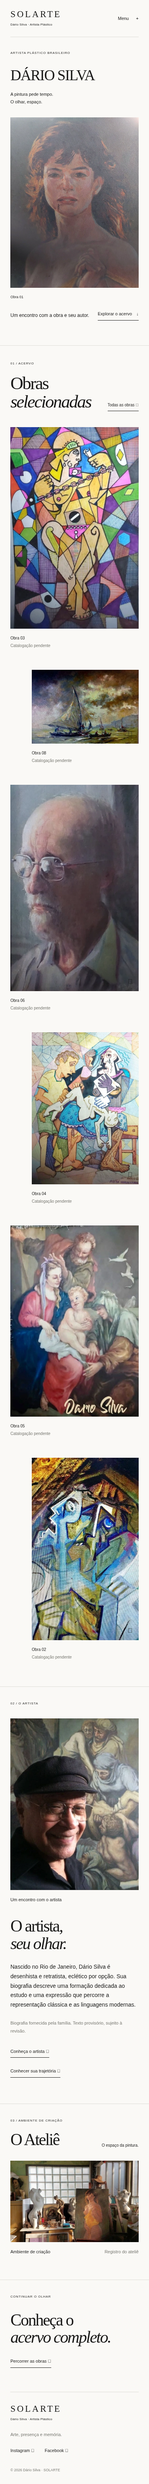
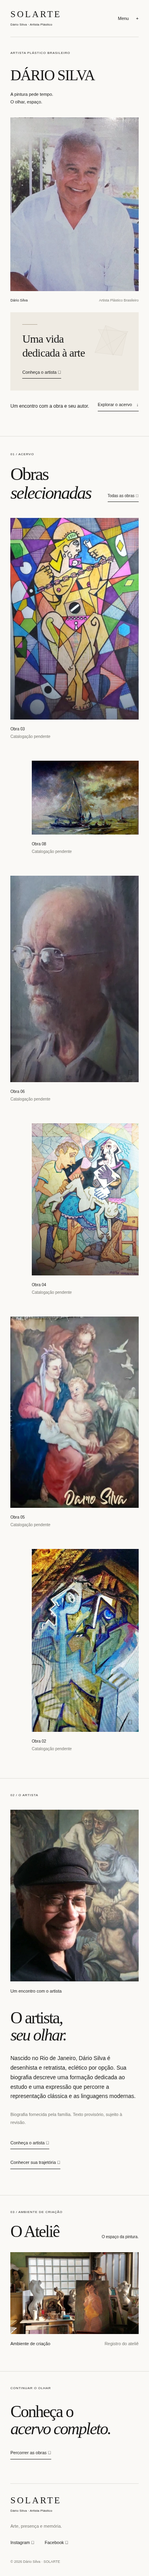
Balance SOLARTE home hero around the artist portrait

diff --git a/tests/browser/site.spec.ts b/tests/browser/site.spec.ts
@@ -76,7 +76,7 @@ test('SOLARTE identifica o site e a Home apresenta o acervo e o ateliê', async 
 
   await expect(page.getByRole('heading', { name: 'Obras selecionadas', exact: true })).toBeVisible();
   await expect(page.getByRole('heading', { name: 'O Ateliê', exact: true })).toBeVisible();
-  await expect(page.getByRole('link', { name: /Conheça o artista/i })).toBeVisible();
+  await expect(page.locator('.hero').getByRole('link', { name: /Conheça o artista/i })).toBeVisible();
   await expect(page.locator('main').getByRole('link', { name: /acervo completo|todas as obras/i }).first()).toBeVisible();
 
   const favicon = page.locator('link[rel="icon"]').first();
@@ -86,12 +86,12 @@ test('SOLARTE identifica o site e a Home apresenta o acervo e o ateliê', async 
   expect(response.ok()).toBe(true);
 });
 
-test('Home exibe a pintura escolhida, a seleção real, o retrato e o ateliê sem recortar imagens', async ({ page }) => {
+test('Home exibe primeiro o artista de camisa branca, a seleção real e o ateliê sem recortar imagens', async ({ page }) => {
   await page.goto('/');
   await expectNoPlaceholders(page);
-  const hero = getArtwork(curation.hero);
-  expect(hero?.image).toBeTruthy();
-  await expectRealImage(page.locator('.hero-art img'), hero!.image!.src);
+  const heroPortrait = artist.portraits[0];
+  expect(heroPortrait.src).toBe('/images/dario-silva-camisa-branca.png');
+  await expectRealImage(page.locator('.hero-art img'), heroPortrait.src);
   const selected = page.locator('#selecao .gallery-grid img');
   await expect(selected).toHaveCount(curation.selected.length);
   for (const [index, slug] of curation.selected.entries()) {
@@ -103,6 +103,33 @@ test('Home exibe a pintura escolhida, a seleção real, o retrato e o ateliê se
   expect(artist.studio).toBeTruthy();
   await expectRealImage(page.locator('.home-artist figure img'), artist.homePortrait!.src);
   await expectRealImage(page.locator('.studio figure img'), artist.studio!.src);
+});
+
+test('composição editorial equilibra o retrato no desktop e o apresenta antes do texto no celular', async ({ page }) => {
+  await page.goto('/');
+  const panel = page.locator('.hero-editorial');
+  const portrait = page.locator('.hero-art');
+  await expect(panel).toContainText('Uma vida dedicada à arte');
+  const artistLink = panel.getByRole('link', { name: /Conheça o artista/i });
+  await expect(artistLink).toHaveAttribute('href', '/o-artista');
+  await expect(panel.locator('svg')).toHaveAttribute('aria-hidden', 'true');
+
+  const [panelBounds, portraitBounds] = await Promise.all([panel.boundingBox(), portrait.boundingBox()]);
+  expect(panelBounds).not.toBeNull();
+  expect(portraitBounds).not.toBeNull();
+  const width = page.viewportSize()!.width;
+  if (width <= 700) {
+    expect(portraitBounds!.y + portraitBounds!.height).toBeLessThanOrEqual(panelBounds!.y + 1);
+    expect(panelBounds!.y - portraitBounds!.y - portraitBounds!.height).toBeLessThan(50);
+  } else {
+    expect(panelBounds!.x + panelBounds!.width).toBeLessThanOrEqual(portraitBounds!.x + 1);
+    expect(Math.min(panelBounds!.y + panelBounds!.height, portraitBounds!.y + portraitBounds!.height))
+      .toBeGreaterThan(Math.max(panelBounds!.y, portraitBounds!.y));
+  }
+
+  await artistLink.click();
+  await expect(page).toHaveURL('/o-artista');
+  await expect(page.getByRole('heading', { name: 'A arte como expressão de uma vida', exact: true })).toBeVisible();
 });
 
 test('cada pintura real carrega no acervo e em sua ficha, com proporções e campos sem informações inventadas', async ({ page }) => {

diff --git a/app/page.tsx b/app/page.tsx
@@ -1,25 +1,41 @@
 import Link from 'next/link';
-import { artworks, getArtwork, canDisplayImage } from '@/data/artworks';
+import { getArtwork, canDisplayImage } from '@/data/artworks';
 import { artist, artistBiography } from '@/data/artist';
 import { curation } from '@/data/curation';
-import { ArtworkImage } from '@/components/artwork-image';
 import { ArtistImage } from '@/components/artist-image';
 import { Gallery } from '@/components/gallery';
 
 export default function Home() {
-  const heroArtwork = getArtwork(curation.hero) ?? artworks[0];
+  const heroPortrait = artist.portraits[0];
   const selected = curation.selected.flatMap(slug => { const artwork = getArtwork(slug); return artwork ? [artwork] : []; });
   return (
     <>
       <section className="hero page-shell">
         <div className="hero-top"><p className="eyebrow">{artist.subtitle}</p><span className="edition">SOLARTE / Acervo & trajetória</span></div>
         <div className="hero-heading"><h1>DÁRIO SILVA</h1><p>A pintura pede tempo.<br />O olhar, espaço.</p></div>
-        <div className="hero-art">
-          <span className="vertical-note">UM ESPAÇO PARA A PINTURA</span>
-          <figure>
-            <ArtworkImage artwork={heroArtwork} priority sizes="(max-width: 700px) 86vw, 76vw" />
-            <figcaption><span>{canDisplayImage(heroArtwork) ? heroArtwork.title : 'Obra em destaque · imagem pendente'}</span><span>{canDisplayImage(heroArtwork) ? heroArtwork.year : 'Acervo em preparação'}</span></figcaption>
-          </figure>
+        <div className="hero-composition">
+          <div className="hero-editorial">
+            <svg className="hero-geometric" viewBox="0 0 320 300" aria-hidden="true" focusable="false">
+              <path d="M40 235 118 38 272 97 237 257Z" fill="#ded5c6" fillOpacity=".45" />
+              <path d="m64 67 218 15-109 172Z" fill="#e2dbcf" fillOpacity=".65" />
+              <g fill="none" stroke="#9c9180" strokeWidth="1">
+                <path d="M40 235 118 38 272 97 237 257Z" />
+                <path d="m64 67 218 15-109 172Z" />
+                <path d="m118 38 55 216 99-157M40 235l242-153" />
+              </g>
+            </svg>
+            <div className="hero-editorial-copy">
+              <span className="hero-fine-line" aria-hidden="true" />
+              <p>Uma vida<br /> dedicada à arte</p>
+              <Link href="/o-artista" className="text-link">Conheça o artista ↗</Link>
+            </div>
+          </div>
+          <div className="hero-art">
+            <figure>
+              <ArtistImage image={heroPortrait} label="Dário Silva sorrindo, de camisa branca" priority />
+              <figcaption><span>Dário Silva</span><span>Artista Plástico Brasileiro</span></figcaption>
+            </figure>
+          </div>
         </div>
         <div className="hero-bottom"><p>Um encontro com a obra e seu autor.</p><a href="#selecao" className="text-link">Explorar o acervo <span>↓</span></a></div>
       </section>

diff --git a/app/globals.css b/app/globals.css
@@ -134,3 +134,59 @@
   .archive-image figure { margin-left: 0; }
   .archive-image h2, .artwork-detail-image h2 { font-size: 36px; }
 }
+
+/* Uma abertura dedicada ao artista, com geometria silenciosa e retrato integral. */
+.hero-composition {
+  display: grid;
+  grid-template-columns: minmax(0, 1.12fr) minmax(0, 1fr);
+  gap: clamp(28px, 4vw, 70px);
+  align-items: stretch;
+}
+.hero-editorial {
+  background: #efebe3;
+  padding: clamp(30px, 4vw, 62px);
+  display: flex;
+  flex-direction: column;
+  justify-content: space-between;
+  gap: 40px;
+}
+.hero-geometric {
+  width: min(65%, 245px);
+  height: auto;
+  align-self: center;
+  opacity: .65;
+}
+.hero-fine-line {
+  display: block;
+  width: 38px;
+  height: 1px;
+  background: #a99e8c;
+  margin-bottom: 25px;
+}
+.hero-editorial-copy > p {
+  font-family: var(--serif);
+  font-size: clamp(28px, 3vw, 42px);
+  letter-spacing: -.025em;
+  line-height: 1.25;
+}
+.hero-editorial-copy .text-link { margin-top: 30px; }
+.hero-composition .hero-art { width: 100%; margin: 0; }
+.hero-composition .hero-art figure { width: 100%; max-width: 500px; margin: 0 0 0 auto; }
+.hero-composition .hero-art .painting { width: 100%; height: auto; max-height: none; margin: 0; }
+@media (min-width: 701px) and (max-width: 1024px) {
+  .hero-composition { grid-template-columns: minmax(0, 1fr) minmax(0, 1fr); gap: 28px; }
+  .hero-editorial { padding: 30px; gap: 25px; }
+  .hero-geometric { width: min(80%, 205px); }
+  .hero-editorial-copy > p { font-size: 30px; }
+}
+@media (max-width: 700px) {
+  .hero-composition { grid-template-columns: 1fr; gap: 22px; }
+  .hero-composition .hero-art { grid-row: 1; }
+  .hero-composition .hero-art figure { max-width: none; margin: 0; }
+  .hero-editorial { grid-row: 2; display: block; position: relative; padding: 30px; }
+  .hero-geometric { position: absolute; width: 110px; height: auto; right: 14px; top: 20px; opacity: .35; }
+  .hero-editorial-copy { position: relative; }
+  .hero-editorial-copy > p { font-size: 28px; }
+  .hero-fine-line { margin-bottom: 18px; }
+  .hero-editorial-copy .text-link { margin-top: 23px; }
+}

diff --git a/docs/image-integration.md b/docs/image-integration.md
@@ -12,7 +12,7 @@ O checkout foi sincronizado com `origin/main`. As imagens chegaram pelo upload a
 - 1 fotografia do ateliê;
 - 1 cópia exata do detalhe, preservada como arquivo sem criar outro registro de obra.
 
-O retrato de homem com óculos é uma pintura. As três fotografias do artista foram identificadas separadamente: camisa branca, retrato formal e boina com óculos. O retrato da mulher de cabelos castanhos é a pintura usada no hero.
+O retrato de homem com óculos é uma pintura. As três fotografias do artista foram identificadas separadamente: camisa branca, retrato formal e boina com óculos. O retrato da mulher de cabelos castanhos permanece no acervo; o hero agora apresenta a fotografia de camisa branca.
 
 ## Inventário e distribuição
 
@@ -20,7 +20,7 @@ Todos os nomes originais abaixo começam com `Captura de tela 2026-10-11 `. Os n
 
 | Nome original (PNG) | Arquivo descritivo | Pixels originais | Identificação e uso |
 | --- | --- | --- | --- |
-| `182854.png` | `pintura-retrato-mulher-cabelos-castanhos.png` | 762 × 1007 | Pintura figurativa: hero, acervo, ficha e lightbox |
+| `182854.png` | `pintura-retrato-mulher-cabelos-castanhos.png` | 762 × 1007 | Pintura figurativa: acervo, ficha e lightbox |
 | `182907.png` | `pintura-composicao-rostos.png` | 561 × 956 | Pintura com rostos em composição expressiva: acervo, ficha e lightbox |
 | `182930.png` | `dario-silva-sorrindo-boina-oculos.png` | 767 × 1022 | Fotografia do artista: Home e O Artista |
 | `182946.png` | `dario-silva-retrato-formal.png` | 530 × 727 | Fotografia formal do artista: O Artista |
@@ -33,7 +33,7 @@ Todos os nomes originais abaixo começam com `Captura de tela 2026-10-11 `. Os n
 | `183206.png` | `pintura-paisagem-maritima.png` | 1280 × 882 | Pintura de paisagem marítima: acervo, ficha e lightbox |
 | `183411.png` | `detalhe-composicao-religiosa.png` | 575 × 1012 | Detalhe da pintura `183055.png`: ligado à ficha da obra, com ampliação |
 | `183411 - Copia.png` | `detalhe-composicao-religiosa-copia.png` | 575 × 1012 | Cópia idêntica do detalhe anterior; preservada, sem duplicar a obra ou a exibição |
-| `184215.png` | `dario-silva-camisa-branca.png` | 390 × 526 | Fotografia independente do artista: retrato principal em O Artista |
+| `184215.png` | `dario-silva-camisa-branca.png` | 390 × 526 | Fotografia independente do artista: hero da Home e retrato principal em O Artista |
 
 A curadoria de obras selecionadas da Home está em `data/curation.ts`. As pinturas alternam cores mais intensas com tons suaves e formatos distintos. Todas as pinturas têm fichas próprias; o detalhe religioso está associado à pintura completa em vez de ser catalogado como uma nona obra.
 
